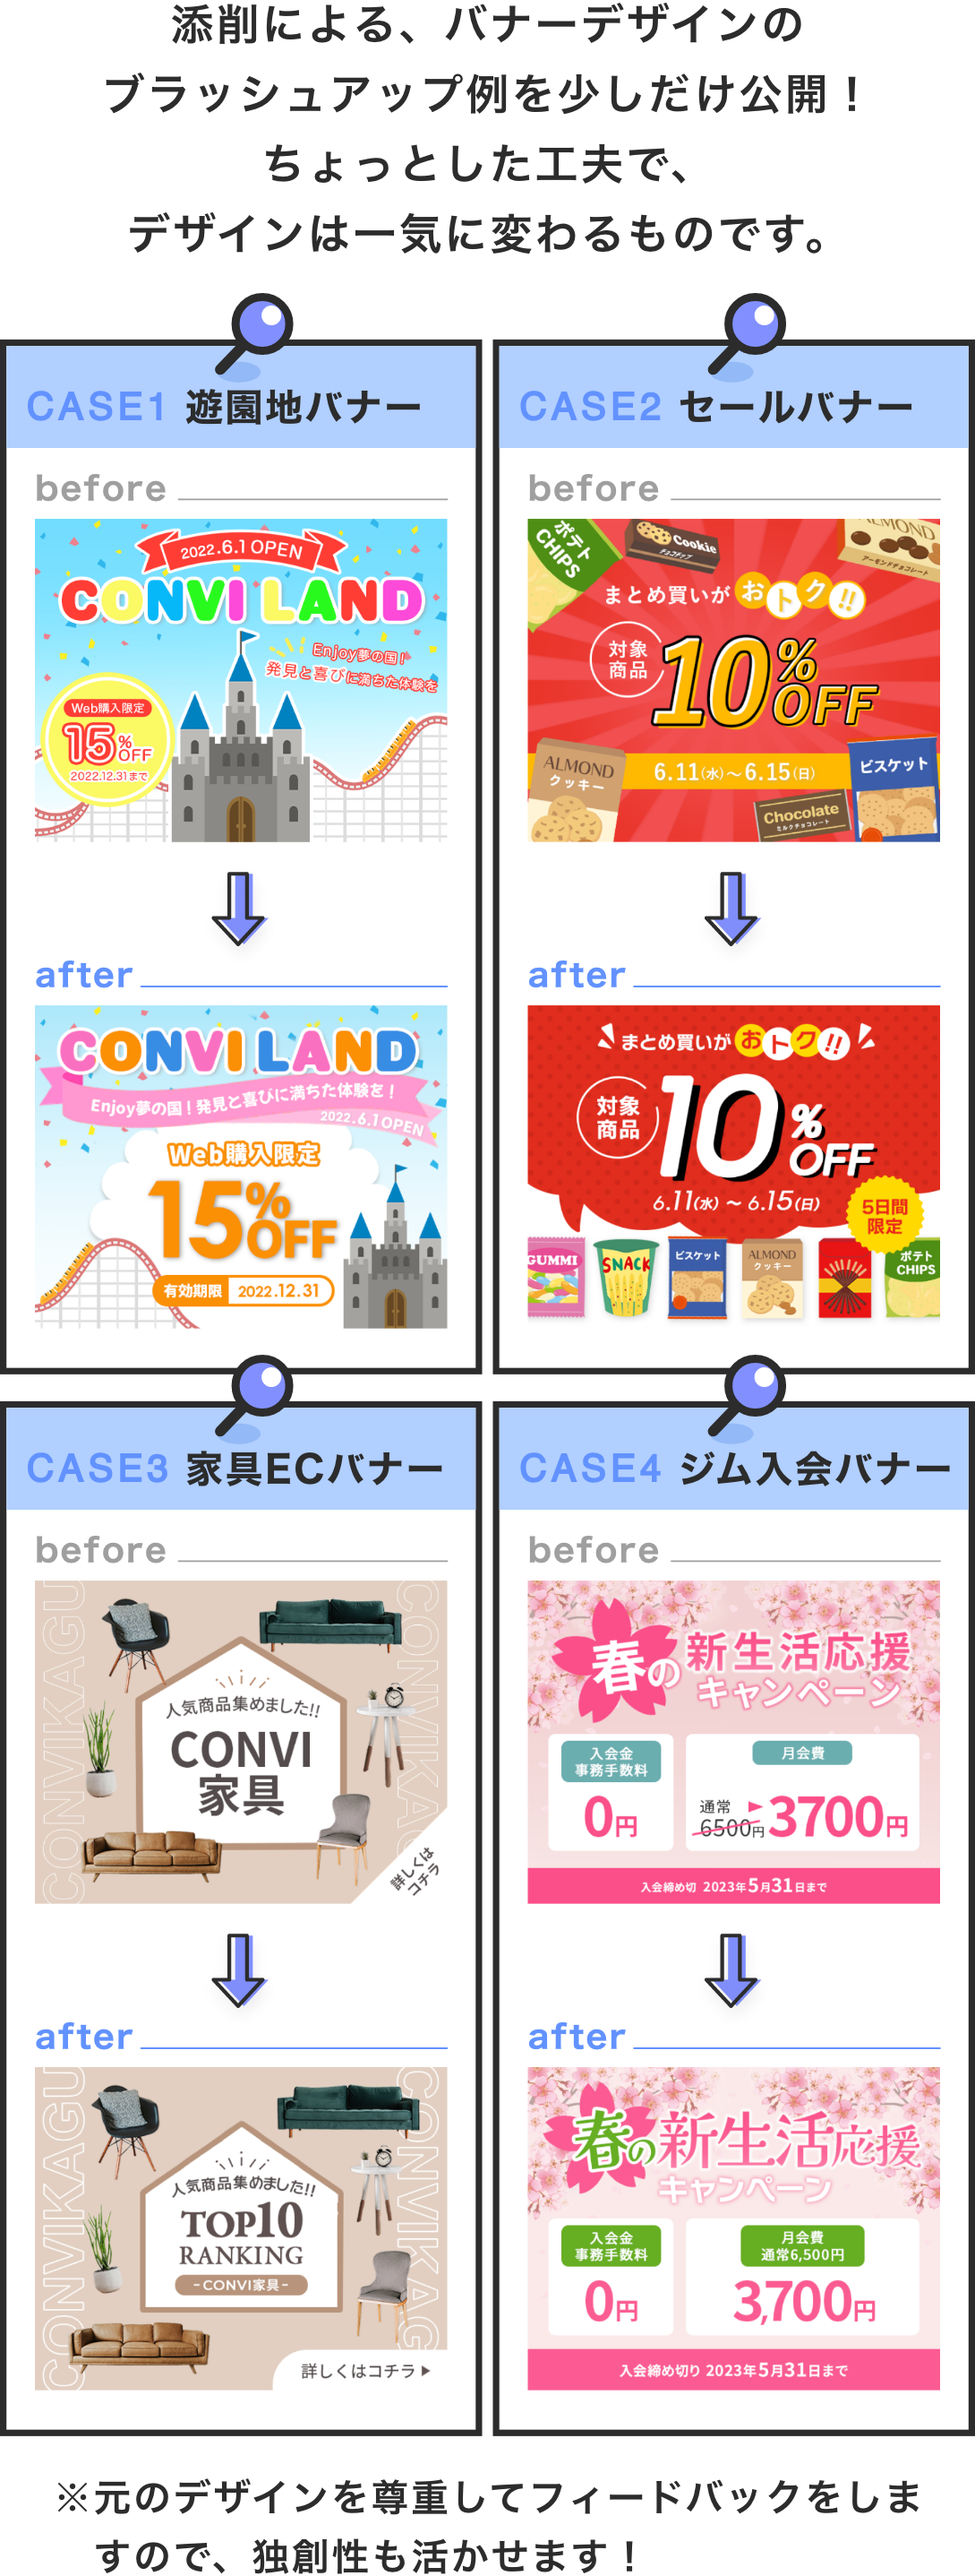
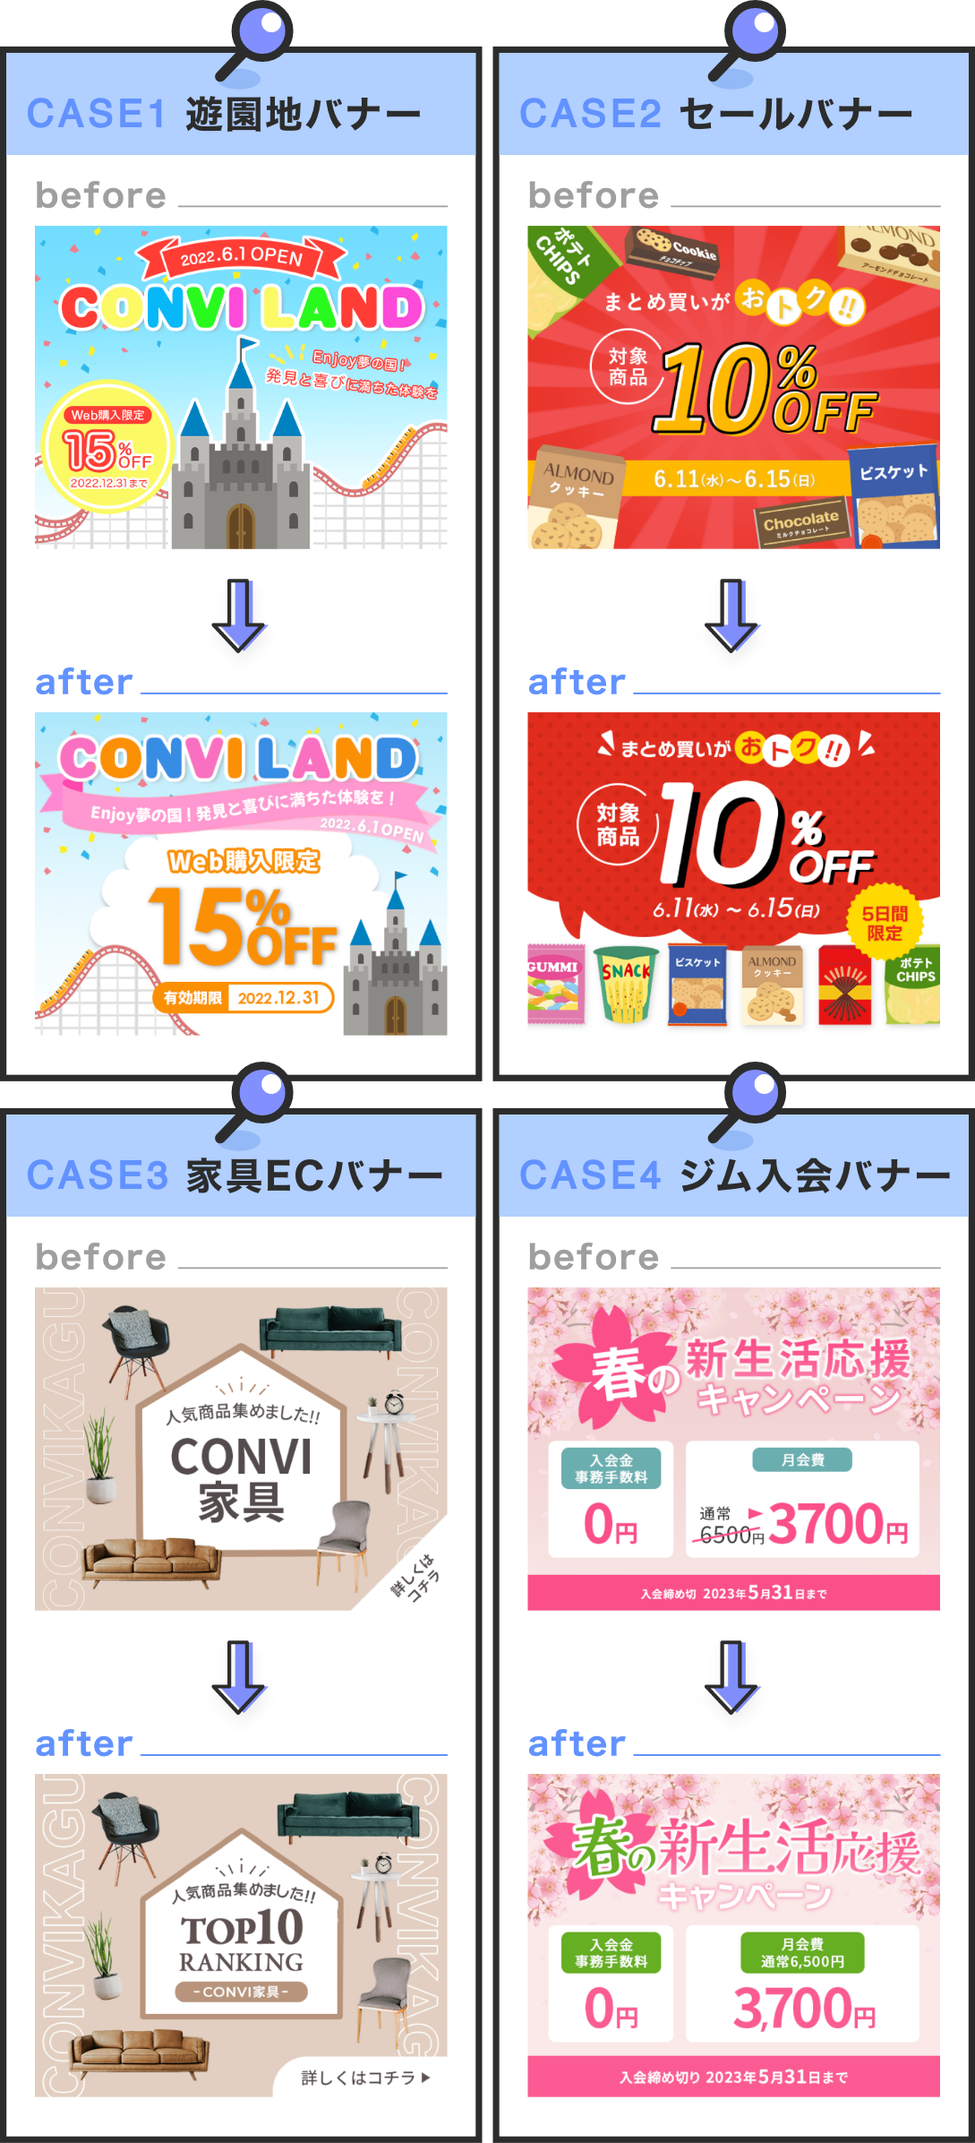
example

diff --git a/index.html b/index.html
@@ -87,12 +87,20 @@
             </li>
           </ul>
         </div>
-        <div class="p-planTextPC"><img class="p-planTextPC__text" src="assets/img/plan-text-pc.png" alt="プラン"></div>
+        <div class="p-planTextPC">
+          <img class="p-planTextPC__text" src="assets/img/plan-text-pc.png" alt="大きな手直しも無く、スピード感を持って取り組まれている方で、それぞれ3ヶ月程度が目安期間です。">
+        </div>
       </div>
       <div class="p-contentsPC">
-        <h2><img class="p-titlePC" src="assets/img/example-title.png" alt="制作例"></h2>
-        <div class="p-meritPC">
-          <img class="p-meritPC__img" src="assets/img/example-pc.png" alt="制作例詳細">
+        <h2><img class="p-exampleTitlePC" src="assets/img/example-title.png" alt="制作例"></h2>
+        <div class="p-exampleTextPC">
+          <img class="p-exampleTextPC__text" src="assets/img/example-textTop-pc.png" alt="添削による、バナーデザインのブラッシュアップ例を少しだけ公開！ちょっとした工夫で、デザインは一気に変わるものです。">
+        </div>
+        <div class="p-examplePC">
+          <img class="p-examplePC__img" src="assets/img/example-pc.png" alt="制作例詳細">
+        </div>
+        <div class="p-exampleTextPCBtm">
+          <img class="p-exampleTextPCBtm__text" src="assets/img/example-textBtm-pc.png" alt="※元のデザインを尊重してフィードバックをしますので、独創性も活かせます！">
         </div>
       </div>
     </div>
@@ -133,7 +141,7 @@
               </div>
             </li>
             <li class="p-planWrap">
-              <img class="p-planWrap__img" src="assets/img/5month-plan.png" alt="サブスクプラン">
+              <img class="p-planWrap__img" src="assets/img/5month-plan.png" alt="5ヶ月プラン">
               <div class="p-planTop">
                 <a href="https://lin.ee/nksVy8W" target="_blank" rel="noopener noreferrer"><img class="p-planMB__topBtn" src="assets/img/5month-btn.png" alt="5ヶ月プランを購入"></a>
               </div>
@@ -142,7 +150,7 @@
               </div>
             </li>
             <li class="p-planWrap">
-              <img class="p-planWrap__img" src="assets/img/10month-plan.png" alt="サブスクプラン">
+              <img class="p-planWrap__img" src="assets/img/10month-plan.png" alt="10ヶ月プラン">
               <div class="p-planTop">
                 <a href="https://lin.ee/nksVy8W" target="_blank" rel="noopener noreferrer"><img class="p-planMB__topBtn" src="assets/img/10month-btn.png" alt="10ヶ月プランを購入"></a>
               </div>
@@ -155,9 +163,15 @@
         <div class="p-planTextMB"><img class="p-planTextMB__text" src="assets/img/plan-text-mb.png" alt="プラン"></div>
       </div>
       <div class="p-contentsMB">
-        <h2><img class="p-titleMB" src="assets/img/example-title.png" alt="制作例"></h2>
-        <div class="p-meritMB">
+        <h2><img class="p-planTitleMB" src="assets/img/example-title.png" alt="制作例"></h2>
+        <div class="p-exampleTextMB">
+          <img class="p-exampleTextMB__text" src="assets/img/example-textTop-mb.png" alt="添削による、バナーデザインのブラッシュアップ例を少しだけ公開！ちょっとした工夫で、デザインは一気に変わるものです。">
+        </div>
+        <div class="p-exampleMB">
           <img class="p-meritPC__img" src="assets/img/example-mb.png" alt="制作例詳細">
+        </div>
+        <div class="p-exampleTextMBBtm">
+          <img class="p-exampleTextMBBtm__text" src="assets/img/example-textBtm-mb.png" alt="※元のデザインを尊重してフィードバックをしますので、独創性も活かせます！">
         </div>
       </div>
     </div>

diff --git a/assets/css/style.css b/assets/css/style.css
@@ -26,9 +26,9 @@
 
 .p-logo {
   left: 32px;
-  margin-top: -12px;
+  margin-top: -8px;
   width: 100%;
-  height: 54px;
+  height: 58px;
 }
 
 .p-copyPC {
@@ -129,7 +129,7 @@
   display: block;
   margin: 0 auto;
   padding-top: 20px;
-  height: 94px;
+  height: 84px;
 }
 
 .p-planTitleMB {
@@ -266,6 +266,69 @@
   display: block;
   margin: 0 auto;
   width: 310px;
+}
+
+.p-exampleTitlePC {
+  display: block;
+  margin: 0 auto;
+  padding-top: 60px;
+  height: 84px;
+}
+
+.p-exampleTextPC {
+  display: block;
+  margin: 32px auto 0;
+  width: 630px;
+}
+
+.p-exampleTextPC__text {
+  width: 630px;
+}
+
+.p-exampleTextPCBtm {
+  display: block;
+  margin: 12px auto 0;
+  width: 700px;
+}
+
+.p-exampleTextPCBtm__text {
+  width: 700px;
+}
+
+.p-exampleTextMB {
+  display: block;
+  margin: 32px auto 0;
+  width: 322px;
+}
+
+.p-exampleTextMB__text {
+  display: block;
+  margin: 0 auto;
+  width: 322px;
+}
+
+.p-exampleTextMBBtm {
+  display: block;
+  margin: 16px auto 0;
+  width: 312px;
+}
+
+.p-exampleTextMBBtm__text {
+  display: block;
+  margin: 0 auto;
+  width: 312px;
+}
+
+.p-examplePC {
+  margin: 24px 44px 0;
+}
+
+.p-examplePC__img {
+  width: 100%;
+}
+
+.p-exampleMB {
+  margin: 32px 20px 0;
 }
 
 @media only screen and (max-width: 1019px) {
